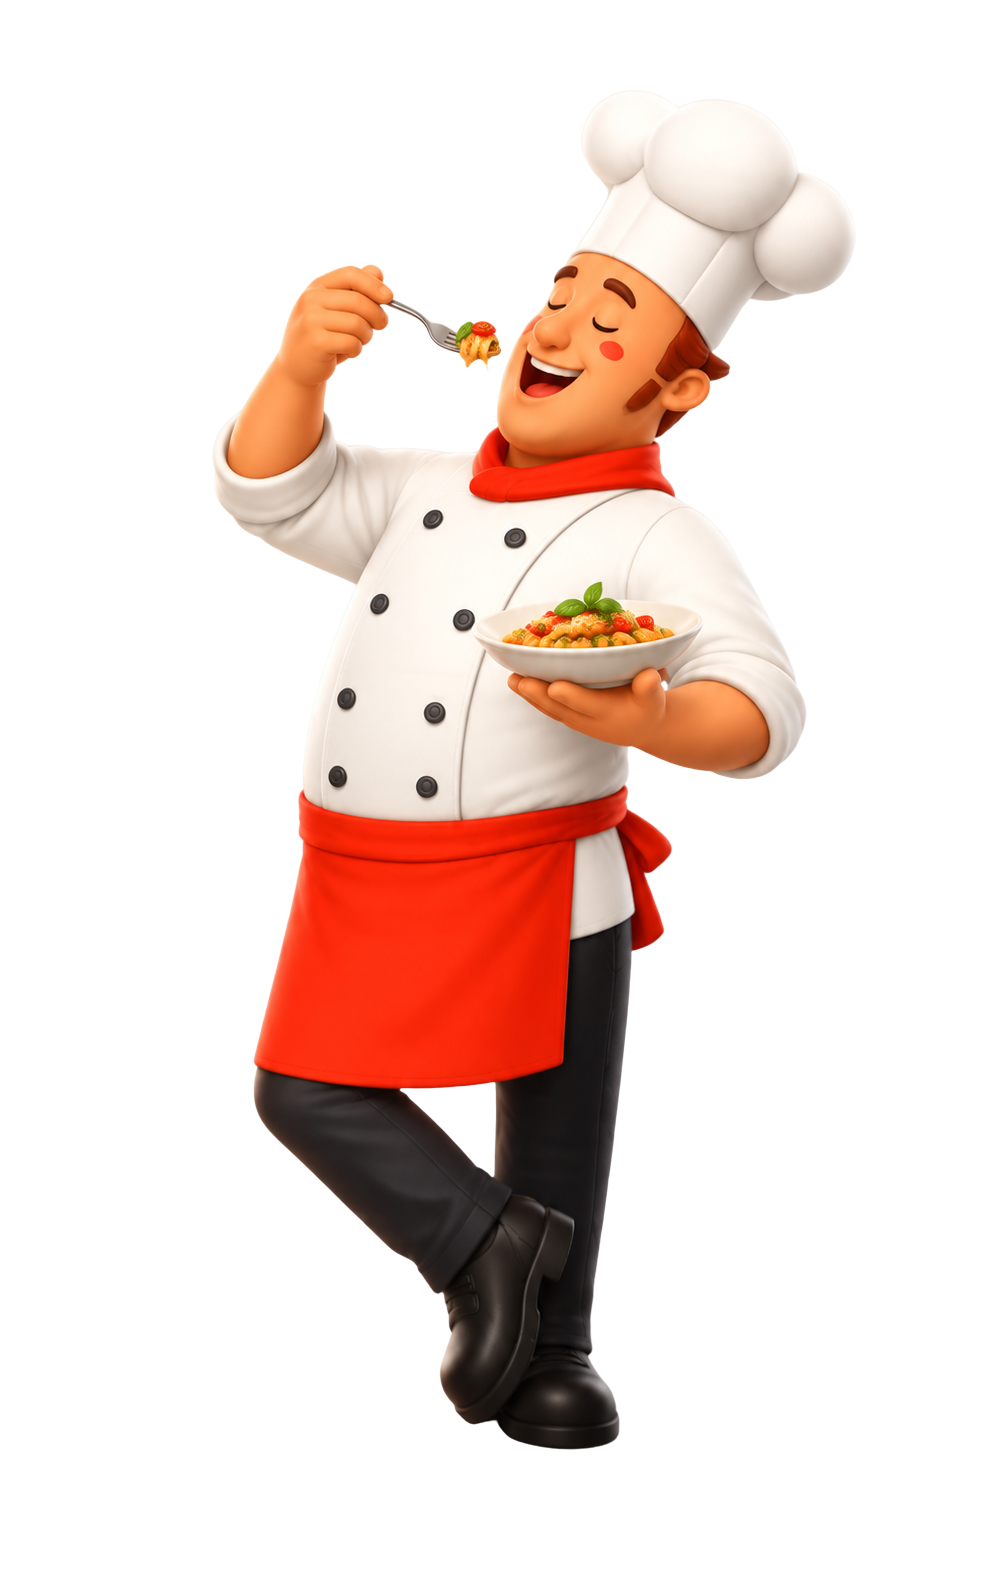
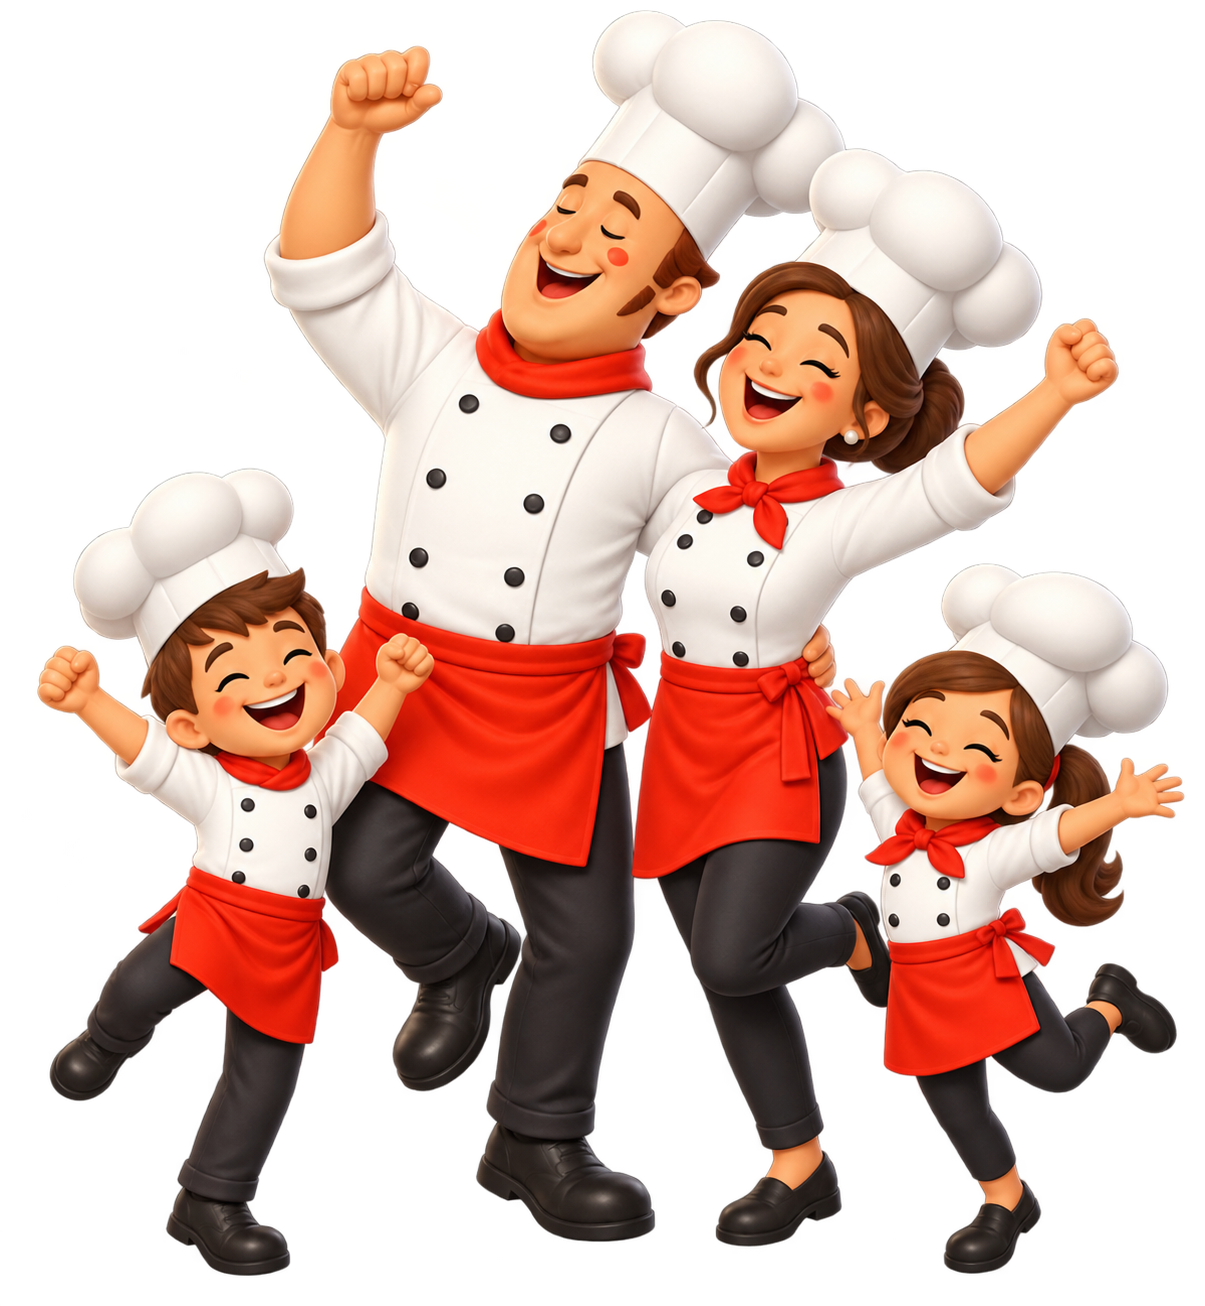
Usa 4.png no mascote da família

diff --git a/src/routes/index.tsx b/src/routes/index.tsx
@@ -242,7 +242,7 @@ function Landing() {
 
         <section className="family-section section-shell">
           <div className="mascot-visual reveal">
-            <img src="/assets/mascote-familia.png" alt="Mascote e família do FDS Gourmet" loading="lazy" />
+            <img src="/assets/mascote-fds-gourmet-02.png" alt="Mascote e família do FDS Gourmet" loading="lazy" />
           </div>
           <div className="section-copy reveal delay-1">
             <p className="eyebrow">Evento para todos</p>
